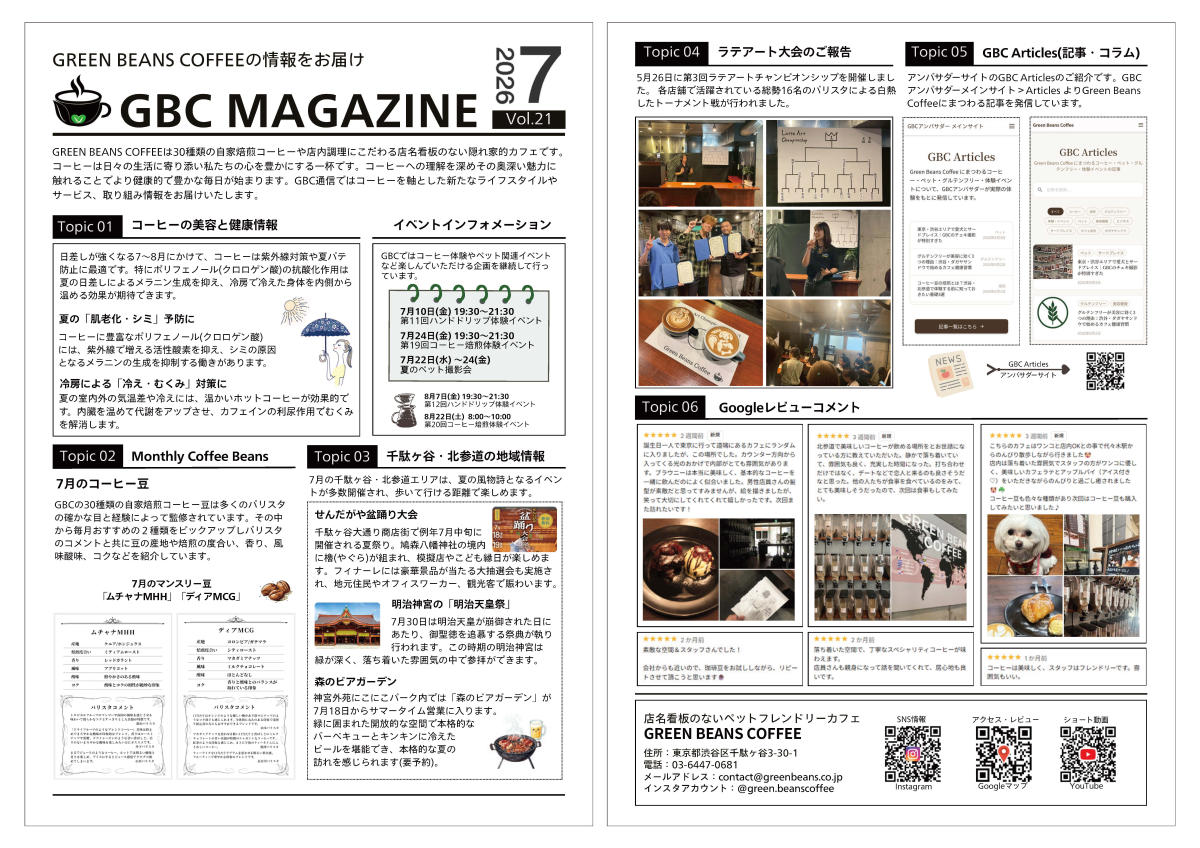
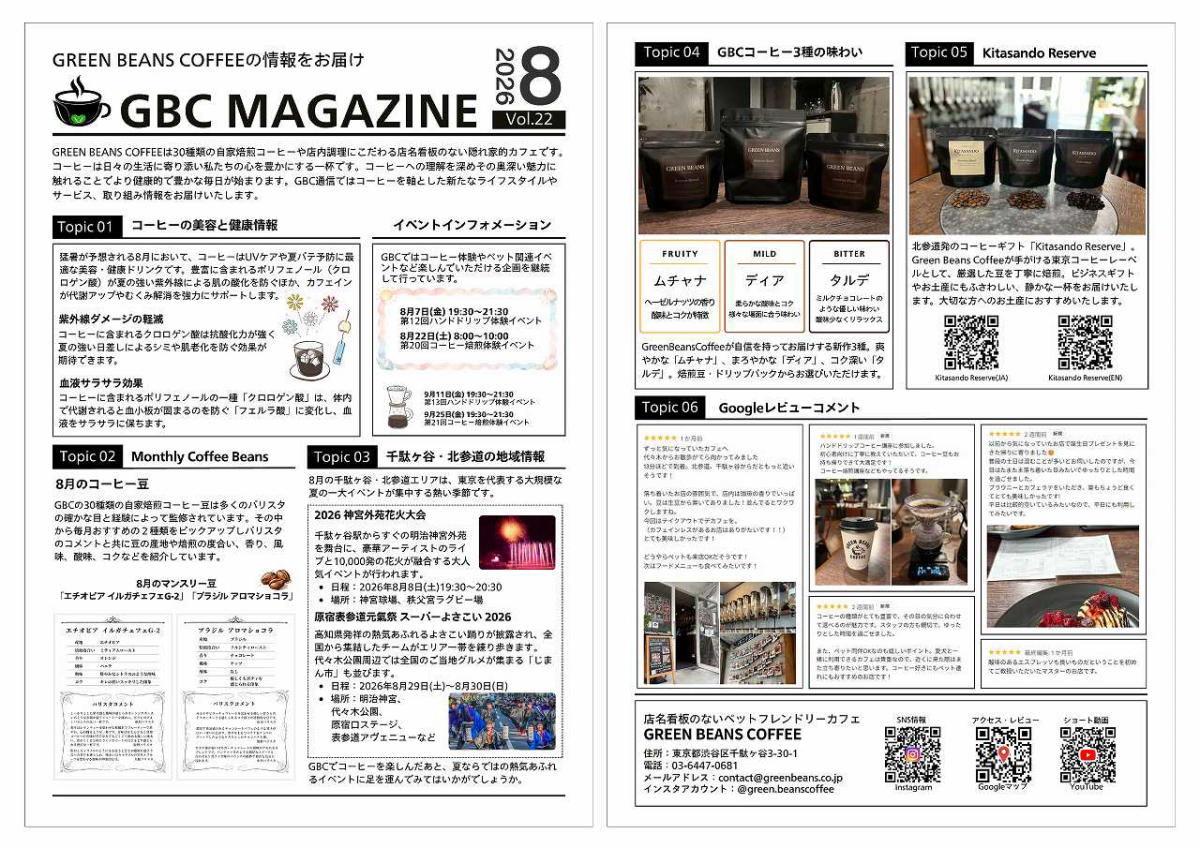
content: GBCマガジン9月号更新とイベント・Monthlyコーヒー画像を差し替え
月次ローテーションでバックナンバーを繰り上げ、最新号を9月号(Vol.23)に更新。
back-01.jpgと最新号は縦横比が誤っていた画像を正しいものに差し替え、
バックナンバーのalt文もローテーションに合わせて月号を修正。

diff --git a/public/index.html b/public/index.html
@@ -406,7 +406,7 @@
       <!-- Last Updated Date -->
       <div class="mt-6 text-right">
         <p class="text-xs sm:text-sm text-secondary font-semibold">
-          最終更新日：2026年8月23日
+          最終更新日：2026年8月25日
         </p>
       </div>
     </div>
@@ -1125,7 +1125,7 @@
         <h3 class="text-xl font-bold mb-6 text-center text-primary">バックナンバー</h3>
         <div class="grid grid-cols-2 sm:grid-cols-2 md:grid-cols-3 gap-4">
           <div class="relative group cursor-pointer" onclick="openModal('/assets/images/magazine/back-01.jpg')">
-            <img src="/assets/images/magazine/back-01.jpg" alt="北参道・千駄ヶ谷のGreen Beans Coffeeが発行する月刊誌「GBCマガジン」2026年7月号。夏の美容・健康情報やラテアート大会のご報告、GBC Articlesの紹介などを掲載しています。" class="w-full rounded shadow group-hover:shadow-lg transition-all duration-300 group-hover:scale-105" loading="lazy" decoding="async">
+            <img src="/assets/images/magazine/back-01.jpg" alt="北参道・千駄ヶ谷のGreen Beans Coffeeが発行する月刊誌「GBCマガジン」2026年8月号。紫外線対策や血液サラサラ効果などコーヒーの美容・健康情報、神宮外苑花火大会・原宿表参道元氣祭スーパーよさこいの地域情報、GBCコーヒー新作3種の紹介を掲載しています。" class="w-full rounded shadow group-hover:shadow-lg transition-all duration-300 group-hover:scale-105" loading="lazy" decoding="async">
             <div class="absolute inset-0 bg-black/0 group-hover:bg-black/20 transition-all duration-300 rounded flex items-center justify-center">
               <svg xmlns="http://www.w3.org/2000/svg" width="48" height="48" viewBox="0 0 24 24" fill="none" stroke="white" stroke-width="2" stroke-linecap="round" stroke-linejoin="round" class="opacity-0 group-hover:opacity-100 transition-opacity duration-300">
                 <circle cx="11" cy="11" r="8"></circle>
@@ -1136,7 +1136,7 @@
             </div>
           </div>
           <div class="relative group cursor-pointer" onclick="openModal('/assets/images/magazine/back-02.jpg')">
-            <img src="/assets/images/magazine/back-02.jpg" alt="北参道・千駄ヶ谷のGreen Beans Coffeeが発行する月刊誌「GBCマガジン」2026年6月号。梅雨時の体調管理に役立つコーヒー情報や鳩森八幡神社の夏越の大祓、ペット撮影会のご報告を掲載しています。" class="w-full rounded shadow group-hover:shadow-lg transition-all duration-300 group-hover:scale-105" loading="lazy" decoding="async">
+            <img src="/assets/images/magazine/back-02.jpg" alt="北参道・千駄ヶ谷のGreen Beans Coffeeが発行する月刊誌「GBCマガジン」2026年7月号。夏の美容・健康情報やラテアート大会のご報告、GBC Articlesの紹介などを掲載しています。" class="w-full rounded shadow group-hover:shadow-lg transition-all duration-300 group-hover:scale-105" loading="lazy" decoding="async">
             <div class="absolute inset-0 bg-black/0 group-hover:bg-black/20 transition-all duration-300 rounded flex items-center justify-center">
               <svg xmlns="http://www.w3.org/2000/svg" width="48" height="48" viewBox="0 0 24 24" fill="none" stroke="white" stroke-width="2" stroke-linecap="round" stroke-linejoin="round" class="opacity-0 group-hover:opacity-100 transition-opacity duration-300">
                 <circle cx="11" cy="11" r="8"></circle>
@@ -1147,7 +1147,7 @@
             </div>
           </div>
           <div class="relative group cursor-pointer" onclick="openModal('/assets/images/magazine/back-03.jpg')">
-            <img src="/assets/images/magazine/back-03.jpg" alt="北参道・千駄ヶ谷のGreen Beans Coffeeが発行する月刊誌「GBCマガジン」2026年5月号。紫外線対策とコーヒーの関係やダガヤサンドウ新緑の散歩スポット、ラテアートチャンピオンシップ2026の告知を掲載しています。" class="w-full rounded shadow group-hover:shadow-lg transition-all duration-300 group-hover:scale-105" loading="lazy" decoding="async">
+            <img src="/assets/images/magazine/back-03.jpg" alt="北参道・千駄ヶ谷のGreen Beans Coffeeが発行する月刊誌「GBCマガジン」2026年6月号。梅雨時の体調管理に役立つコーヒー情報や鳩森八幡神社の夏越の大祓、ペット撮影会のご報告を掲載しています。" class="w-full rounded shadow group-hover:shadow-lg transition-all duration-300 group-hover:scale-105" loading="lazy" decoding="async">
             <div class="absolute inset-0 bg-black/0 group-hover:bg-black/20 transition-all duration-300 rounded flex items-center justify-center">
               <svg xmlns="http://www.w3.org/2000/svg" width="48" height="48" viewBox="0 0 24 24" fill="none" stroke="white" stroke-width="2" stroke-linecap="round" stroke-linejoin="round" class="opacity-0 group-hover:opacity-100 transition-opacity duration-300">
                 <circle cx="11" cy="11" r="8"></circle>
@@ -1158,7 +1158,7 @@
             </div>
           </div>
           <div class="relative group cursor-pointer" onclick="openModal('/assets/images/magazine/back-04.jpg')">
-            <img src="/assets/images/magazine/back-04.jpg" alt="北参道・千駄ヶ谷のGreen Beans Coffeeが発行する月刊誌「GBCマガジン」2026年4月号。集中力とコーヒーの関係や代々木公園わんわんカーニバル2026の情報、コラボカフェのご報告を掲載しています。" class="w-full rounded shadow group-hover:shadow-lg transition-all duration-300 group-hover:scale-105" loading="lazy" decoding="async">
+            <img src="/assets/images/magazine/back-04.jpg" alt="北参道・千駄ヶ谷のGreen Beans Coffeeが発行する月刊誌「GBCマガジン」2026年5月号。紫外線対策とコーヒーの関係やダガヤサンドウ新緑の散歩スポット、ラテアートチャンピオンシップ2026の告知を掲載しています。" class="w-full rounded shadow group-hover:shadow-lg transition-all duration-300 group-hover:scale-105" loading="lazy" decoding="async">
             <div class="absolute inset-0 bg-black/0 group-hover:bg-black/20 transition-all duration-300 rounded flex items-center justify-center">
               <svg xmlns="http://www.w3.org/2000/svg" width="48" height="48" viewBox="0 0 24 24" fill="none" stroke="white" stroke-width="2" stroke-linecap="round" stroke-linejoin="round" class="opacity-0 group-hover:opacity-100 transition-opacity duration-300">
                 <circle cx="11" cy="11" r="8"></circle>
@@ -1169,7 +1169,7 @@
             </div>
           </div>
           <div class="relative group cursor-pointer" onclick="openModal('/assets/images/magazine/back-05.jpg')">
-            <img src="/assets/images/magazine/back-05.jpg" alt="北参道・千駄ヶ谷のGreen Beans Coffeeが発行する月刊誌「GBCマガジン」2026年3月号。春先の体調管理に役立つコーヒー情報や新宿御苑の桜だより、冬のペット撮影会のご報告を掲載しています。" class="w-full rounded shadow group-hover:shadow-lg transition-all duration-300 group-hover:scale-105" loading="lazy" decoding="async">
+            <img src="/assets/images/magazine/back-05.jpg" alt="北参道・千駄ヶ谷のGreen Beans Coffeeが発行する月刊誌「GBCマガジン」2026年4月号。集中力とコーヒーの関係や代々木公園わんわんカーニバル2026の情報、コラボカフェのご報告を掲載しています。" class="w-full rounded shadow group-hover:shadow-lg transition-all duration-300 group-hover:scale-105" loading="lazy" decoding="async">
             <div class="absolute inset-0 bg-black/0 group-hover:bg-black/20 transition-all duration-300 rounded flex items-center justify-center">
               <svg xmlns="http://www.w3.org/2000/svg" width="48" height="48" viewBox="0 0 24 24" fill="none" stroke="white" stroke-width="2" stroke-linecap="round" stroke-linejoin="round" class="opacity-0 group-hover:opacity-100 transition-opacity duration-300">
                 <circle cx="11" cy="11" r="8"></circle>
@@ -1180,7 +1180,7 @@
             </div>
           </div>
           <div class="relative group cursor-pointer" onclick="openModal('/assets/images/magazine/back-06.jpg')">
-            <img src="/assets/images/magazine/back-06.jpg" alt="北参道・千駄ヶ谷のGreen Beans Coffeeが発行する月刊誌「GBCマガジン」2026年2月号。花粉症対策とコーヒーの関係や新宿御苑の早春の花々、GBC公式LINE開始のお知らせを掲載しています。" class="w-full rounded shadow group-hover:shadow-lg transition-all duration-300 group-hover:scale-105" loading="lazy" decoding="async">
+            <img src="/assets/images/magazine/back-06.jpg" alt="北参道・千駄ヶ谷のGreen Beans Coffeeが発行する月刊誌「GBCマガジン」2026年3月号。春先の体調管理に役立つコーヒー情報や新宿御苑の桜だより、冬のペット撮影会のご報告を掲載しています。" class="w-full rounded shadow group-hover:shadow-lg transition-all duration-300 group-hover:scale-105" loading="lazy" decoding="async">
             <div class="absolute inset-0 bg-black/0 group-hover:bg-black/20 transition-all duration-300 rounded flex items-center justify-center">
               <svg xmlns="http://www.w3.org/2000/svg" width="48" height="48" viewBox="0 0 24 24" fill="none" stroke="white" stroke-width="2" stroke-linecap="round" stroke-linejoin="round" class="opacity-0 group-hover:opacity-100 transition-opacity duration-300">
                 <circle cx="11" cy="11" r="8"></circle>
